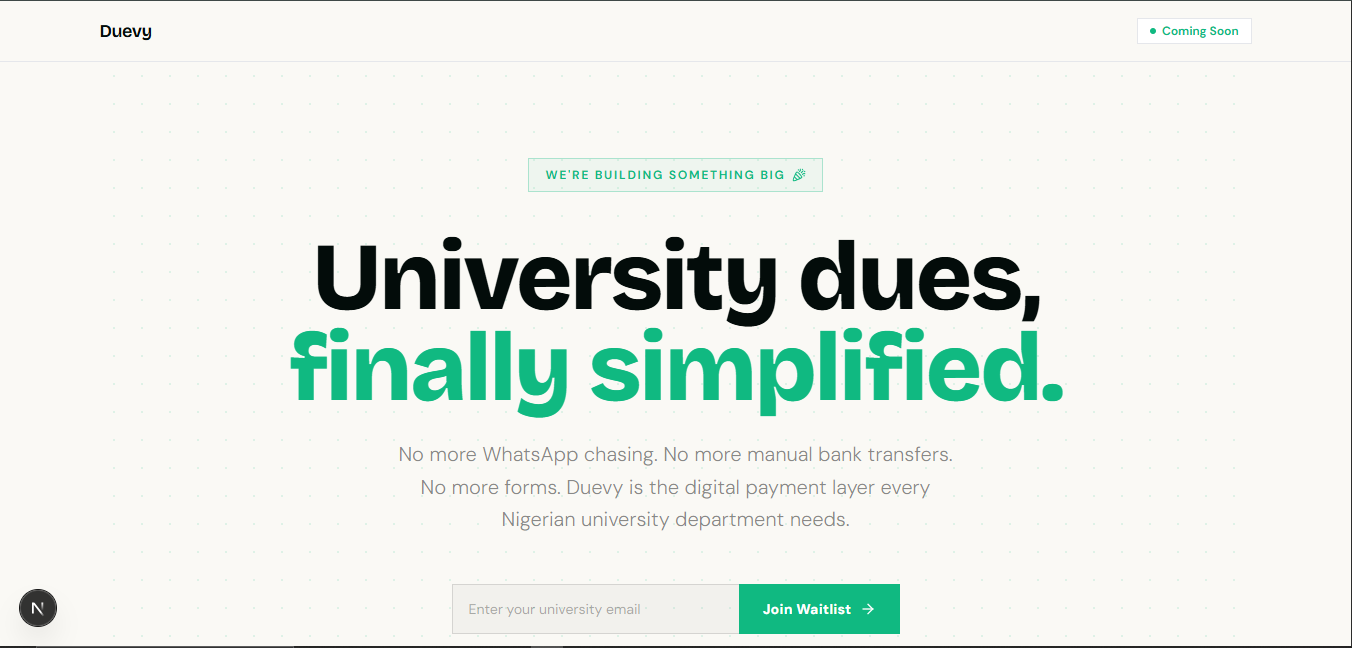
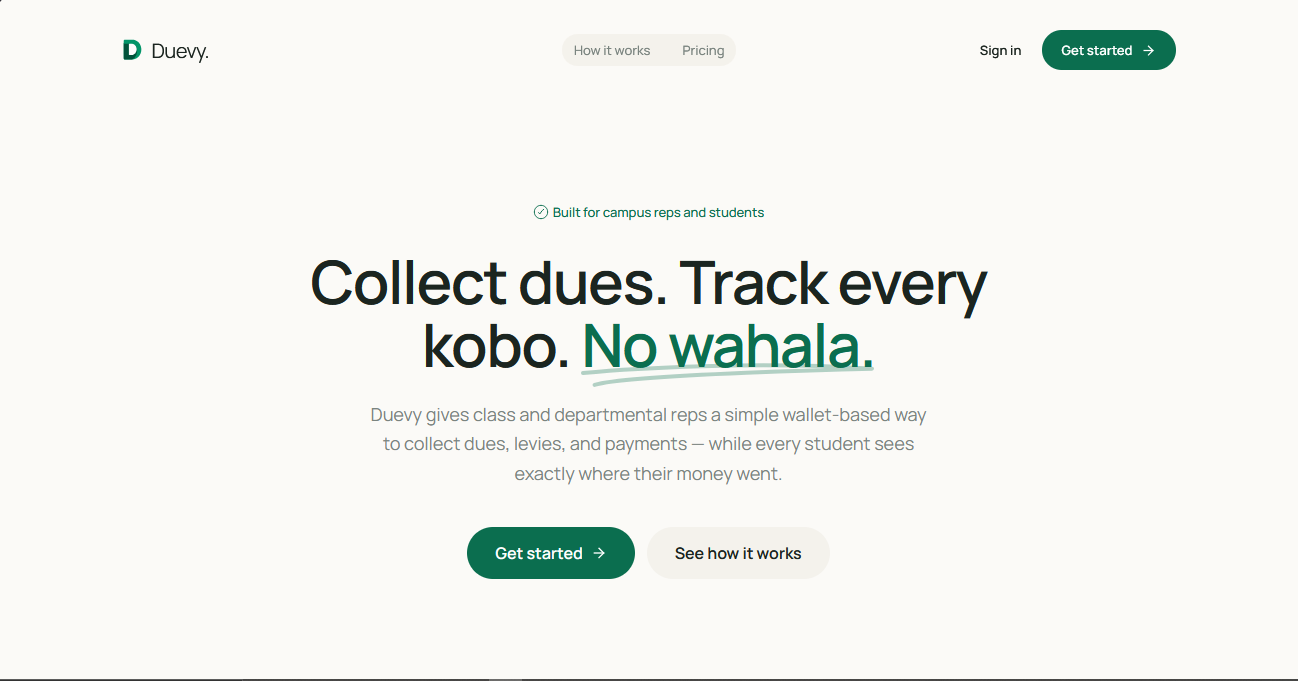
update DueCollections.tsx and ogimage.png

diff --git a/app/(dashboards)/dashboard/create-dues/_components/DueCollections.tsx b/app/(dashboards)/dashboard/create-dues/_components/DueCollections.tsx
@@ -73,37 +73,41 @@ export function DueCollections({
   const [loading, setLoading] = useState(true);
   const [filter, setFilter] = useState<StatusFilter>("all");
   const [query, setQuery] = useState("");
+  const [sendingReminders, setSendingReminders] = useState(false);
 
   useEffect(() => {
     let cancelled = false;
     (async () => {
       setLoading(true);
-      console.group(`[collections] ${due.title} (${due.id})`);
-      console.log("request →", { spaceId, dueId: due.id, due });
+      console.log(`[collections] REQUEST ${due.title}`, { spaceId, dueId: due.id });
       try {
         const res = await getCollections(spaceId, due.id, { perPage: 200 });
-        console.log("raw response →", res);
-        console.log("meta →", res.meta);
-        console.log("totals →", res.data?.totals);
-        console.log("students →", res.data?.students);
-        console.table(res.data?.students ?? []);
+        console.log(`[collections] SUCCESS ${due.title}`, {
+          totals: res.data?.totals,
+          students: res.data?.students,
+          meta: res.meta,
+          raw: res,
+        });
         if (cancelled) return;
         const { data } = res;
         setStudents((data.students ?? []).map(adaptStudent));
         setTotals(data.totals ? adaptTotals(data.totals) : EMPTY_TOTALS);
       } catch (err) {
+        console.error(`[collections] FAILED ${due.title}`, {
+          status: err instanceof ApiError ? err.status : undefined,
+          code: err instanceof ApiError ? err.code : undefined,
+          message: err instanceof Error ? err.message : String(err),
+          err,
+        });
         if (cancelled) return;
         // No roster yet (e.g. a fresh/draft due) can 404 — show it as empty.
         if (err instanceof ApiError && err.status === 404) {
-          console.warn("404 — no roster yet, treating as empty");
           setStudents([]);
           setTotals(EMPTY_TOTALS);
         } else {
-          console.error("getCollections failed →", err);
           toast.error("Couldn't load the collection roster.");
         }
       } finally {
-        console.groupEnd();
         if (!cancelled) setLoading(false);
       }
     })();
@@ -157,6 +161,7 @@ export function DueCollections({
       });
       return;
     }
+    setSendingReminders(true);
     try {
       await remindUnpaid(spaceId, due.id);
       toast.success("Reminders sent", {
@@ -166,6 +171,8 @@ export function DueCollections({
       });
     } catch {
       toast.error("Couldn't send reminders. They may be rate-limited (once per day).");
+    } finally {
+      setSendingReminders(false);
     }
   };
 
@@ -191,9 +198,18 @@ export function DueCollections({
           </div>
         </div>
         <div className="flex items-center gap-2">
-          <Button variant="brand-outline" size="pill" onClick={handleReminders}>
-            <HugeiconsIcon icon={Notification03Icon} size={15} />
-            Remind unpaid
+          <Button
+            variant="brand-outline"
+            size="pill"
+            onClick={handleReminders}
+            disabled={sendingReminders}
+          >
+            {sendingReminders ? (
+              <span className="h-3.5 w-3.5 animate-spin rounded-full border-2 border-brand/30 border-t-brand" />
+            ) : (
+              <HugeiconsIcon icon={Notification03Icon} size={15} />
+            )}
+            {sendingReminders ? "Sending…" : "Remind unpaid"}
           </Button>
           <Button
             variant="brand-outline"
